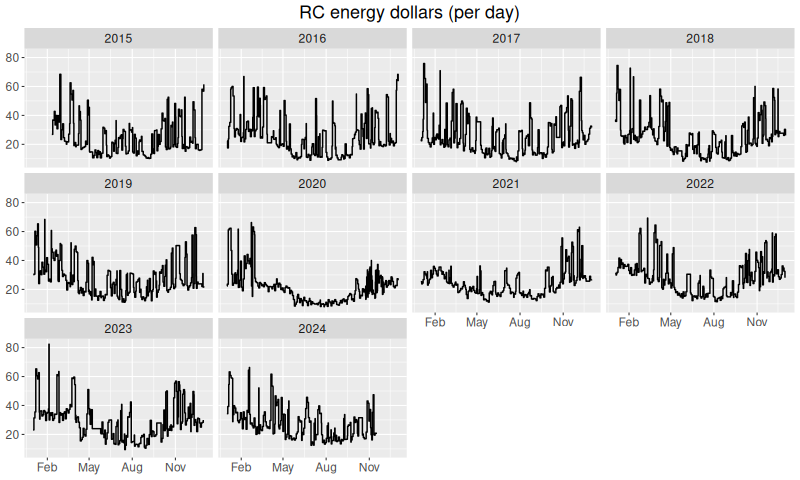
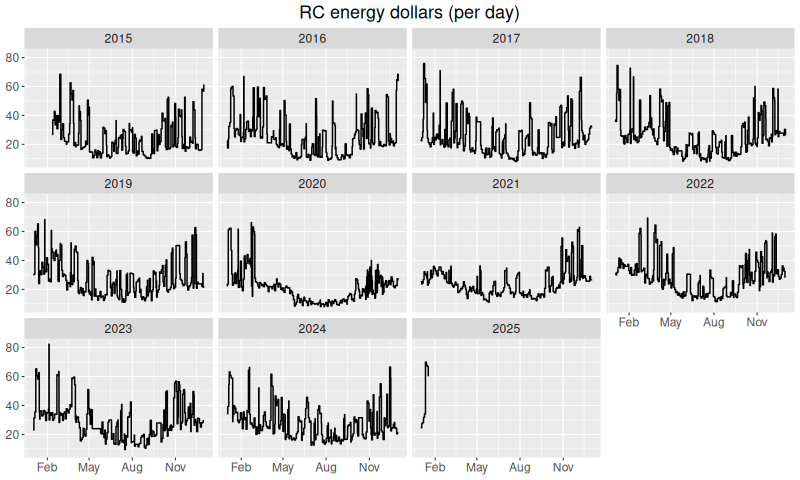
auto commit

diff --git a/index.html b/index.html
@@ -3,7 +3,7 @@
 "http://www.w3.org/TR/xhtml1/DTD/xhtml1-strict.dtd">
 <html xmlns="http://www.w3.org/1999/xhtml" lang="en" xml:lang="en">
 <head>
-<!-- 2024-11-16 Sat 03:47 -->
+<!-- 2025-01-20 Mon 05:10 -->
 <meta http-equiv="Content-Type" content="text/html;charset=utf-8" />
 <meta name="viewport" content="width=device-width, initial-scale=1" />
 <title>Chapin Mill Energy</title>
@@ -229,13 +229,13 @@
 <body>
 <div id="content" class="content">
 <h1 class="title">Chapin Mill Energy</h1>
-<div id="outline-container-org224a400" class="outline-2">
-<h2 id="org224a400">Energy Comparisons</h2>
-<div class="outline-text-2" id="text-org224a400">
+<div id="outline-container-org644a960" class="outline-2">
+<h2 id="org644a960">Energy Comparisons</h2>
+<div class="outline-text-2" id="text-org644a960">
 </div>
-<div id="outline-container-org59762dd" class="outline-3">
-<h3 id="org59762dd">Weather</h3>
-<div class="outline-text-3" id="text-org59762dd">
+<div id="outline-container-org0532857" class="outline-3">
+<h3 id="org0532857">Weather</h3>
+<div class="outline-text-3" id="text-org0532857">
 <p>
 Since a major focus of this study is the comparison of the rates of
 natural gas and electricity consumption under various uses of the
@@ -265,9 +265,9 @@ Ensemble readings so that they were more realistic.
 </p>
 </div>
 </div>
-<div id="outline-container-orgff8d631" class="outline-3">
-<h3 id="orgff8d631">Energy Consumption</h3>
-<div class="outline-text-3" id="text-orgff8d631">
+<div id="outline-container-org852336b" class="outline-3">
+<h3 id="org852336b">Energy Consumption</h3>
+<div class="outline-text-3" id="text-org852336b">
 <p>
 The plot below describes the rate of retreat center energy consumption
 for the past few months as reported by the gas and electric meters.
@@ -281,7 +281,7 @@ consumption.
 </p>
 
 
-<div id="org361ea59" class="figure">
+<div id="org6c5ae0f" class="figure">
 <p><img src="energy.png" alt="energy.png" />
 </p>
 </div>
@@ -297,7 +297,7 @@ patterns.
 </p>
 
 
-<div id="org2dcba6a" class="figure">
+<div id="orgfb700ab" class="figure">
 <p><img src="dollars.png" alt="dollars.png" />
 </p>
 </div>
@@ -312,16 +312,16 @@ dollar cost&#x2014;over all times of the year and over all events.
 </p>
 
 
-<div id="org7e07b25" class="figure">
+<div id="orged0626a" class="figure">
 <p><img src="hist.png" alt="hist.png" />
 </p>
 </div>
 
 <p>
 To be slightly more precise, 95% of the time the observed
-electricity power consumption was less than <code>315</code>
+electricity power consumption was less than <code>318</code>
 kWh per day, gas consumption was less than
-<code>43</code> hundred cubic feet per day and the
+<code>44</code> hundred cubic feet per day and the
 overall energy cost was less than <code>53</code> dollars per
 day.
 </p>
@@ -349,7 +349,7 @@ within 45 and 60 dollars.
 </p>
 
 
-<div id="org091f78f" class="figure">
+<div id="org6a3e23a" class="figure">
 <p><img src="regime.png" alt="regime.png" />
 </p>
 </div>
@@ -379,7 +379,7 @@ heated for sesshin setup.)
 </p>
 
 
-<div id="org04aabcf" class="figure">
+<div id="org430696f" class="figure">
 <p><img src="energy2.png" alt="energy2.png" />
 </p>
 </div>
@@ -395,7 +395,7 @@ value is the average of the temperature readings over that period.
 </p>
 
 
-<div id="orgbdd651a" class="figure">
+<div id="orgf34a009" class="figure">
 <p><img src="scatter.png" alt="scatter.png" />
 </p>
 </div>
@@ -408,9 +408,9 @@ the results would not be very interesting.
 </p>
 </div>
 </div>
-<div id="outline-container-orgb057122" class="outline-3">
-<h3 id="orgb057122">Natural gas</h3>
-<div class="outline-text-3" id="text-orgb057122">
+<div id="outline-container-org5f14008" class="outline-3">
+<h3 id="org5f14008">Natural gas</h3>
+<div class="outline-text-3" id="text-org5f14008">
 <p>
 For a given level of occupancy of the retreat center it would be
 natural to consider gas consumption as consisting of two parts:
@@ -442,7 +442,7 @@ scaling factors relate gas consumption in ccf (100s of cubic feet)
 per day to degrees Fahrenheit. 95% confidence intervals are
 </p>
 
-<div id="lccjmlttbd" style="padding-left:0px;padding-right:0px;padding-top:10px;padding-bottom:10px;overflow-x:auto;overflow-y:auto;width:auto;height:auto;">
+<div id="gsjfgqdsta" style="padding-left:0px;padding-right:0px;padding-top:10px;padding-bottom:10px;overflow-x:auto;overflow-y:auto;width:auto;height:auto;">
   
   <table class="gt_table" data-quarto-disable-processing="false" data-quarto-bootstrap="false" style="-webkit-font-smoothing: antialiased; -moz-osx-font-smoothing: grayscale; font-family: system-ui, 'Segoe UI', Roboto, Helvetica, Arial, sans-serif, 'Apple Color Emoji', 'Segoe UI Emoji', 'Segoe UI Symbol', 'Noto Color Emoji'; display: table; border-collapse: collapse; line-height: normal; margin-left: auto; margin-right: auto; color: #333333; font-size: 16px; font-weight: normal; font-style: normal; background-color: #FFFFFF; width: auto; border-top-style: solid; border-top-width: 2px; border-top-color: #A8A8A8; border-right-style: none; border-right-width: 2px; border-right-color: #D3D3D3; border-bottom-style: solid; border-bottom-width: 2px; border-bottom-color: #A8A8A8; border-left-style: none; border-left-width: 2px; border-left-color: #D3D3D3;" bgcolor="#FFFFFF">
   <thead style="border-style: none;">
@@ -508,15 +508,15 @@ predictions for times that are either idle, sesshin, SIMT or UR.)
 </p>
 
 
-<div id="org501596f" class="figure">
+<div id="orge545d00" class="figure">
 <p><img src="diagnostic.png" alt="diagnostic.png" />
 </p>
 </div>
 </div>
 </div>
-<div id="outline-container-orgd2db461" class="outline-3">
-<h3 id="orgd2db461">Electricity</h3>
-<div class="outline-text-3" id="text-orgd2db461">
+<div id="outline-container-org5d222ee" class="outline-3">
+<h3 id="org5d222ee">Electricity</h3>
+<div class="outline-text-3" id="text-org5d222ee">
 <p>
 For the period under consideration electricity usage did not vary
 with outside air temperature in a significant way. The data only
@@ -524,7 +524,7 @@ established separate estimates of electricity consumption in kWh
 per day for idle and occupied periods.
 </p>
 
-<div id="hltgwkmczp" style="padding-left:0px;padding-right:0px;padding-top:10px;padding-bottom:10px;overflow-x:auto;overflow-y:auto;width:auto;height:auto;">
+<div id="zbgcdogwnv" style="padding-left:0px;padding-right:0px;padding-top:10px;padding-bottom:10px;overflow-x:auto;overflow-y:auto;width:auto;height:auto;">
   
   <table class="gt_table" data-quarto-disable-processing="false" data-quarto-bootstrap="false" style="-webkit-font-smoothing: antialiased; -moz-osx-font-smoothing: grayscale; font-family: system-ui, 'Segoe UI', Roboto, Helvetica, Arial, sans-serif, 'Apple Color Emoji', 'Segoe UI Emoji', 'Segoe UI Symbol', 'Noto Color Emoji'; display: table; border-collapse: collapse; line-height: normal; margin-left: auto; margin-right: auto; color: #333333; font-size: 16px; font-weight: normal; font-style: normal; background-color: #FFFFFF; width: auto; border-top-style: solid; border-top-width: 2px; border-top-color: #A8A8A8; border-right-style: none; border-right-width: 2px; border-right-color: #D3D3D3; border-bottom-style: solid; border-bottom-width: 2px; border-bottom-color: #A8A8A8; border-left-style: none; border-left-width: 2px; border-left-color: #D3D3D3;" bgcolor="#FFFFFF">
   <thead style="border-style: none;">
@@ -582,9 +582,9 @@ dollars respectively.
 </div>
 </div>
 </div>
-<div id="outline-container-org3a66234" class="outline-2">
-<h2 id="org3a66234">Summary of Rental Impact</h2>
-<div class="outline-text-2" id="text-org3a66234">
+<div id="outline-container-org212d073" class="outline-2">
+<h2 id="org212d073">Summary of Rental Impact</h2>
+<div class="outline-text-2" id="text-org212d073">
 <p>
 Taking a SIMT retreat to be typical of renters in general and
 assuming the usual costs for gas and electricity
@@ -611,9 +611,9 @@ The corresponding values for idle times are <code>29</code> ccf
 </p>
 </div>
 </div>
-<div id="outline-container-orga974aeb" class="outline-2">
-<h2 id="orga974aeb">Details</h2>
-<div class="outline-text-2" id="text-orga974aeb">
+<div id="outline-container-org9d04b08" class="outline-2">
+<h2 id="org9d04b08">Details</h2>
+<div class="outline-text-2" id="text-org9d04b08">
 <p>
 The natural gas model is
 \[
@@ -664,7 +664,7 @@ The &alpha; parameter estimates and their standard errors look as
 follows:
 </p>
 
-<div id="rplbuqqnwl" style="padding-left:0px;padding-right:0px;padding-top:10px;padding-bottom:10px;overflow-x:auto;overflow-y:auto;width:auto;height:auto;">
+<div id="ukgtwpevjs" style="padding-left:0px;padding-right:0px;padding-top:10px;padding-bottom:10px;overflow-x:auto;overflow-y:auto;width:auto;height:auto;">
   
   <table class="gt_table" data-quarto-disable-processing="false" data-quarto-bootstrap="false" style="-webkit-font-smoothing: antialiased; -moz-osx-font-smoothing: grayscale; font-family: system-ui, 'Segoe UI', Roboto, Helvetica, Arial, sans-serif, 'Apple Color Emoji', 'Segoe UI Emoji', 'Segoe UI Symbol', 'Noto Color Emoji'; display: table; border-collapse: collapse; line-height: normal; margin-left: auto; margin-right: auto; color: #333333; font-size: 16px; font-weight: normal; font-style: normal; background-color: #FFFFFF; width: auto; border-top-style: solid; border-top-width: 2px; border-top-color: #A8A8A8; border-right-style: none; border-right-width: 2px; border-right-color: #D3D3D3; border-bottom-style: solid; border-bottom-width: 2px; border-bottom-color: #A8A8A8; border-left-style: none; border-left-width: 2px; border-left-color: #D3D3D3;" bgcolor="#FFFFFF">
   <thead style="border-style: none;">
@@ -731,7 +731,7 @@ where \(y\) is electricity consumption in kWh per day and the
 \(\epsilon\) are error.  The estimates and errors are:
 </p>
 
-<div id="mssfrlqupf" style="padding-left:0px;padding-right:0px;padding-top:10px;padding-bottom:10px;overflow-x:auto;overflow-y:auto;width:auto;height:auto;">
+<div id="cqburvbmsj" style="padding-left:0px;padding-right:0px;padding-top:10px;padding-bottom:10px;overflow-x:auto;overflow-y:auto;width:auto;height:auto;">
   
   <table class="gt_table" data-quarto-disable-processing="false" data-quarto-bootstrap="false" style="-webkit-font-smoothing: antialiased; -moz-osx-font-smoothing: grayscale; font-family: system-ui, 'Segoe UI', Roboto, Helvetica, Arial, sans-serif, 'Apple Color Emoji', 'Segoe UI Emoji', 'Segoe UI Symbol', 'Noto Color Emoji'; display: table; border-collapse: collapse; line-height: normal; margin-left: auto; margin-right: auto; color: #333333; font-size: 16px; font-weight: normal; font-style: normal; background-color: #FFFFFF; width: auto; border-top-style: solid; border-top-width: 2px; border-top-color: #A8A8A8; border-right-style: none; border-right-width: 2px; border-right-color: #D3D3D3; border-bottom-style: solid; border-bottom-width: 2px; border-bottom-color: #A8A8A8; border-left-style: none; border-left-width: 2px; border-left-color: #D3D3D3;" bgcolor="#FFFFFF">
   <thead style="border-style: none;">
@@ -777,7 +777,7 @@ where \(y\) is electricity consumption in kWh per day and the
 </div>
 </div>
 <div id="postamble" class="status">
-<p class="date">Created: 2024-11-16 Sat 03:47</p>
+<p class="date">Created: 2025-01-20 Mon 05:10</p>
 <p class="validation"><a href="https://validator.w3.org/check?uri=referer">Validate</a></p>
 </div>
 </body>
